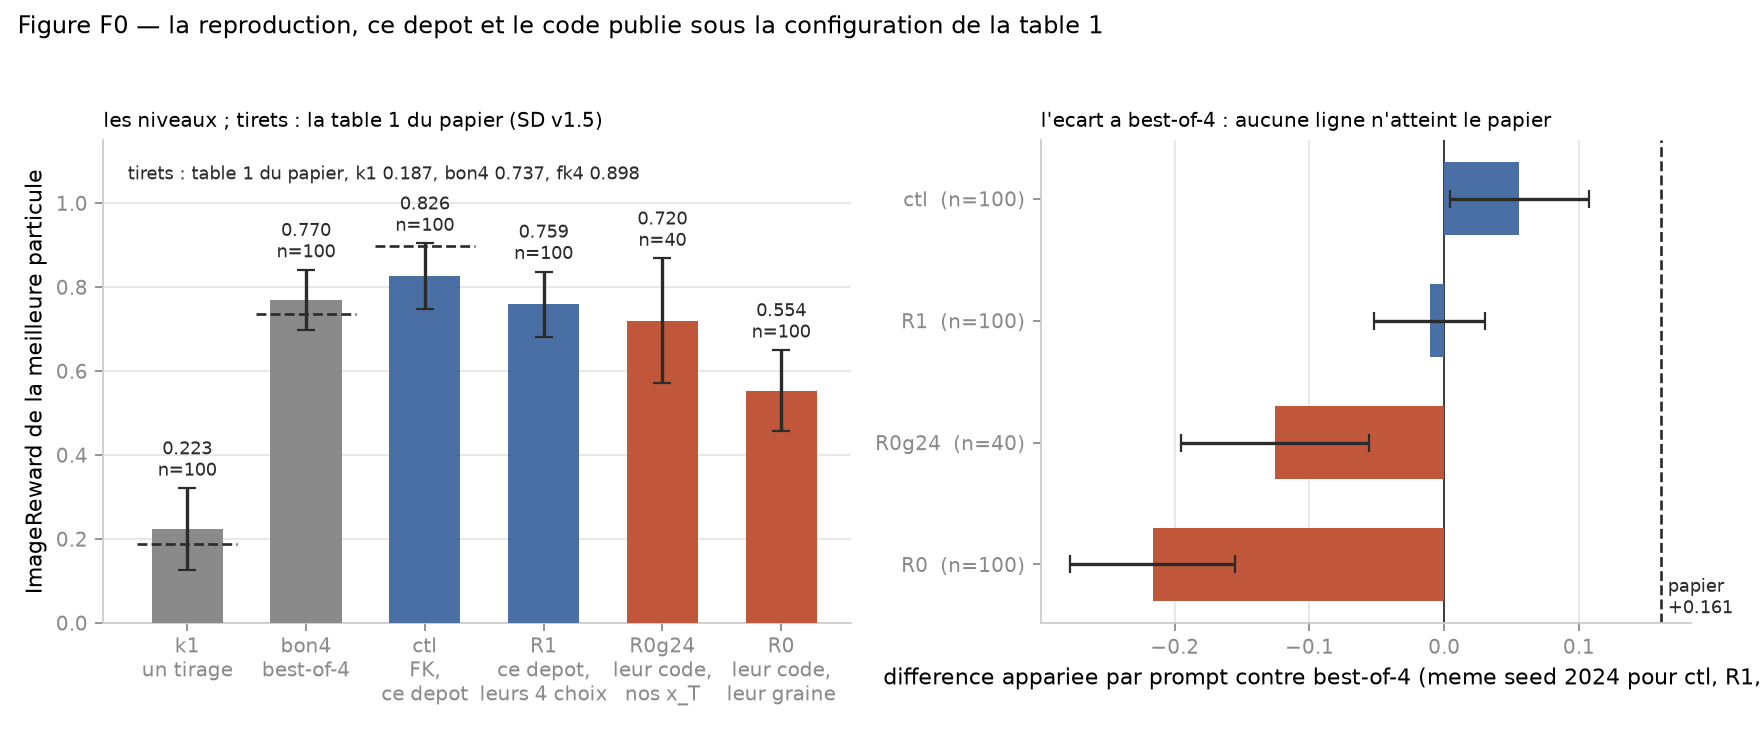
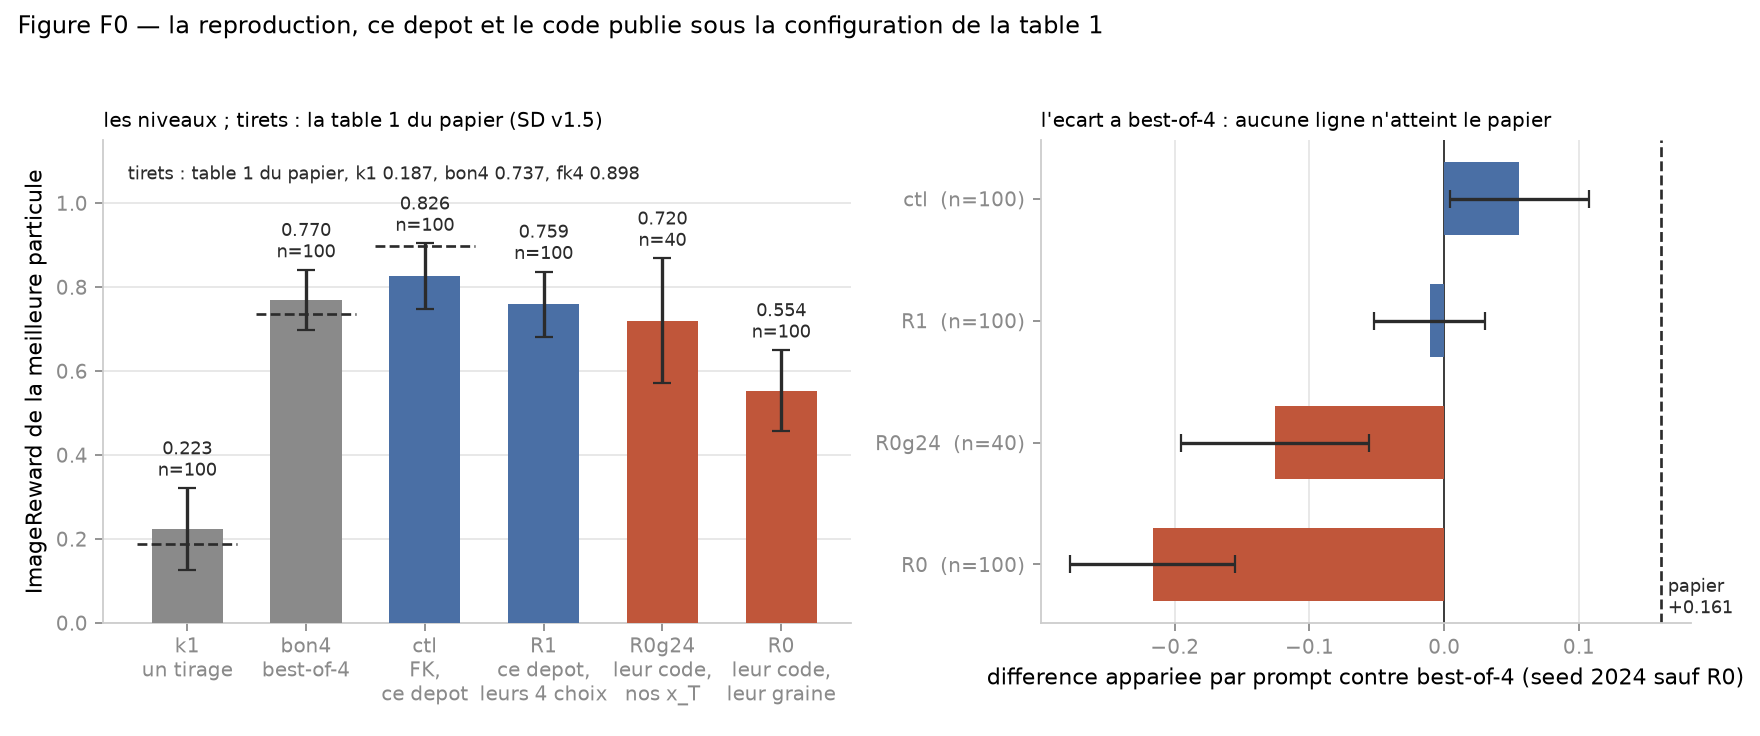
pass 6: four corrections from the review of pass 5, F0 axis label

Changed region(s): [[0.5, 0.9062, 1.0, 0.9375]]

diff --git a/scripts/plot_fig0_reference.py b/scripts/plot_fig0_reference.py
@@ -74,7 +74,7 @@ a2.axvline(papier["fk4"]["ir_max"] - papier["bon4"]["ir_max"], color=INK, ls="--
 a2.text(papier["fk4"]["ir_max"] - papier["bon4"]["ir_max"] + 0.005, len(diffs) - 0.6, "papier\n+0.161", fontsize=8, color=INK)
 a2.set_yticks(y); a2.set_yticklabels([f"{n}  (n={k})" for n, _, _, k, _ in diffs], fontsize=8)
 a2.invert_yaxis()
-a2.set_xlabel("difference appariee par prompt contre best-of-4 (meme seed 2024 pour ctl, R1, R0g24)")
+a2.set_xlabel("difference appariee par prompt contre best-of-4 (seed 2024 sauf R0)")
 a2.set_title("l'ecart a best-of-4 : aucune ligne n'atteint le papier", fontsize=9, loc="left")
 dress(a2, grid="x")
 fig.suptitle("Figure F0 — la reproduction, ce depot et le code publie sous la configuration de la table 1", fontsize=11, x=0.01, ha="left")

diff --git a/docs/paper.md b/docs/paper.md
@@ -86,7 +86,7 @@ repository's filter by wrappers, and the released code ran from its own clone.
 | row | code | ImageReward | against best-of-4 |
 |---|---|---|---|
 | paper, Table 1 | | 0.898 | +0.161 |
-| this repository, its own choices (`ctl`, 100 prompts, seed 2024) | `smc/` | 0.826 | +0.056 ± 0.052 |
+| this repository, its own choices (`ctl`: the FK row regenerated on 21/09 with the current code, 100 prompts, seed 2024) | `smc/` | 0.826 | +0.056 ± 0.052 |
 | this repository with the four choices (`R1`, 100 prompts) | `smc/` | 0.756 | -0.011 ± 0.041 |
 | released code, same $x_T$ as the rows above (40 prompts) | theirs | 0.720 | -0.126 ± 0.070 |
 | released code, its own seeding (100 prompts) | theirs | 0.554 | -0.216 ± 0.061 |
@@ -146,13 +146,14 @@ one step. What kills the cloud is a different thing, the degeneracy of the paths
 each resampling copies some particles and drops others, and after a few passes
 every survivor descends from the same ancestor whatever the weights did in
 between. The two are separable on this data. An arm that bisects $\lambda$ at
-every step so that the ESS is held at exactly 2 of 4 still ends on 1.4 roots, 60
-runs of 100 on a single one. And the count of surviving roots can be predicted
+every step so that the ESS is held at exactly 2 of 4 still ends on 1.4 roots, 60 %
+of its runs on a single one. And the count of surviving roots can be predicted
 without knowing anything about the steering: replaying the recorded weights of
 each run through the resampler, with the systematic comb integrated over its
 offset, gives the mean number of final roots of fifteen different arms within
-0.07 and their single-root fraction within three points. The prediction was
-written down before the two arms it was tested on were run, and it held on both.
+0.07 and their single-root fraction within three points. For one arm the
+prediction was written down before the arm ran, 1.84 roots against the plan's
+guess of 2.4 to 2.8, and the arm came out at 2.00.
 Under flat weights the comb is the identity and the multinomial draw the
 released code uses is not: four flat passes at $k = 4$ leave 1.6 roots of 4 by
 pure chance, before any reward has spoken.
@@ -200,8 +201,8 @@ about the cloud.
 
 ## 5. Repairing the collapse, and what it costs
 
-Ten arms tried to keep the cloud alive, each pre-registered with a prediction
-and paired to the reference on 40 prompts. Two time-dependent $\lambda$ ramps
+Fifteen arms tried to keep the cloud alive, each pre-registered with a
+prediction and paired to the reference on 20 to 40 prompts. Two time-dependent $\lambda$ ramps
 under two placements move ImageReward by nothing, all eight differences inside
 one standard error of zero, and the quadratic ramp with an ESS threshold doubles
 the lineages to 2.05 of 4 by resampling once per run instead of four times. A

diff --git a/docs/paper_log.md b/docs/paper_log.md
@@ -4,6 +4,26 @@ One block per pass, most recent on top. The loop, its scope and its review grid
 are `.claude/skills/paper-loop/SKILL.md`; what the post has to contain is
 `docs/paper_plan.md`.
 
+## Pass 6 (23/09, review of pass 5 with the grid, four corrections)
+
+**Reviewed.** Sections 2 to 5 reread against blocks 11, 12, 15, 17, 18 of
+`results.md`, figures checked by `ls`.
+
+**Found.** Correctness: "60 runs of 100 on a single one" for an arm measured on 40
+prompts (it is 60 % of its runs); "the prediction held on both" arms, where only
+`thr05` had a pre-registered coalescence prediction (`R1`'s multinomial-column
+match was read after the fact); "paired on 40 prompts" for arms that ran on 20
+(the ramps, `lam2`, `rise`); two FK numbers in section 2 (0.820 from the 300-run
+row of 20/09, 0.826 from the row regenerated on 21/09) with no clause saying
+which code each comes from. Clarity: figure 7 (ESS against gain) is no longer
+referenced in the text after the trim; it stays in the annex list.
+
+**Corrected.** The four sentences above; the reference row of the table names its
+provenance.
+
+**Open.** No question to the author from this pass. Next pass after session C
+lands: section 3's last paragraph and the two suspended constats.
+
 ## Pass 5 (23/09, sections 2 to 8 rewritten on the final state; block 18 of `results.md` added)
 
 **Reviewed.** The whole post against the grid, after writing: the reference
